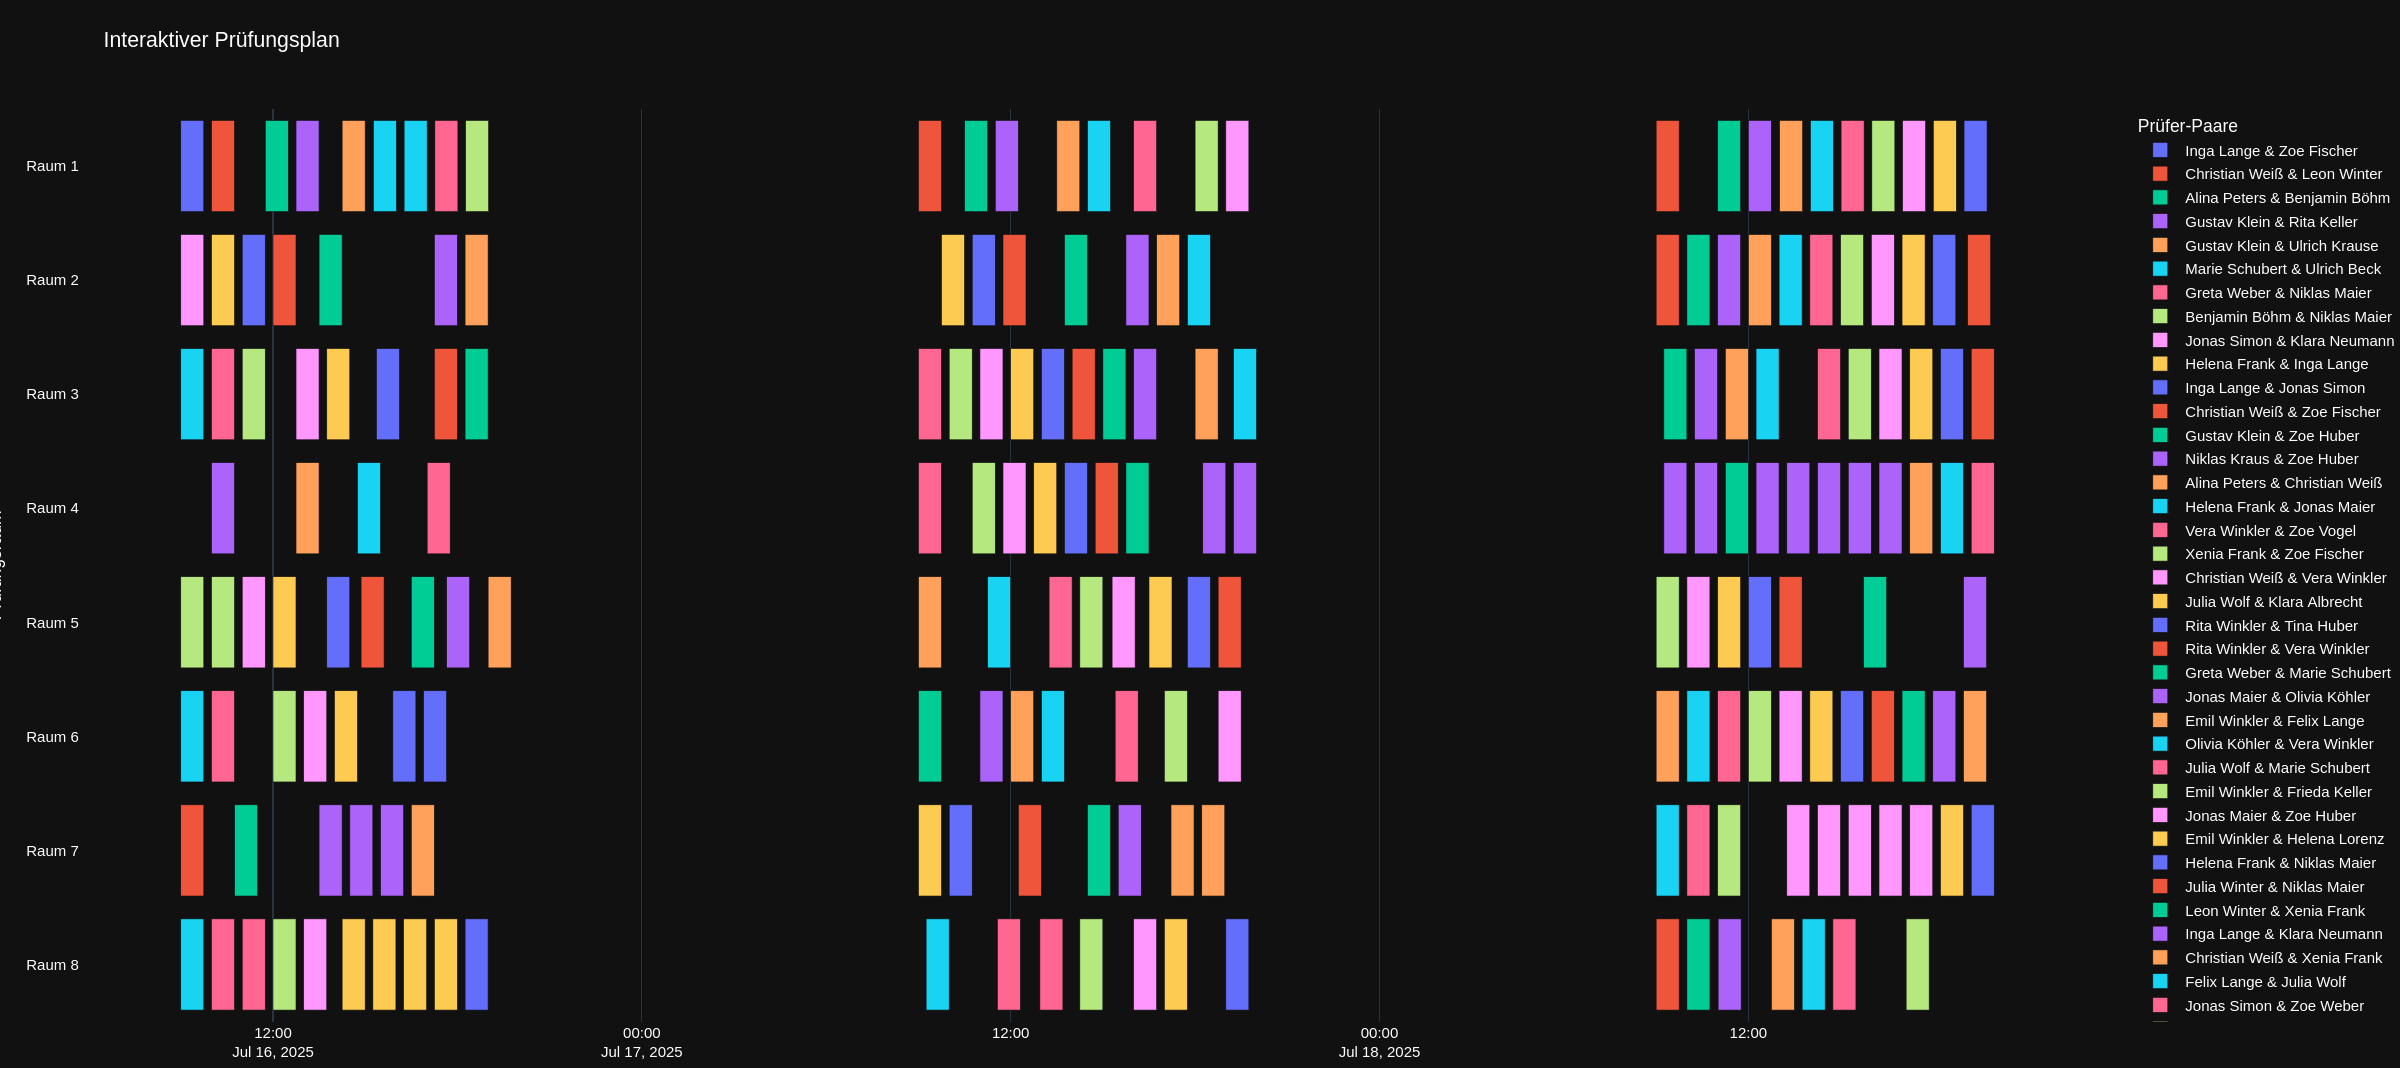
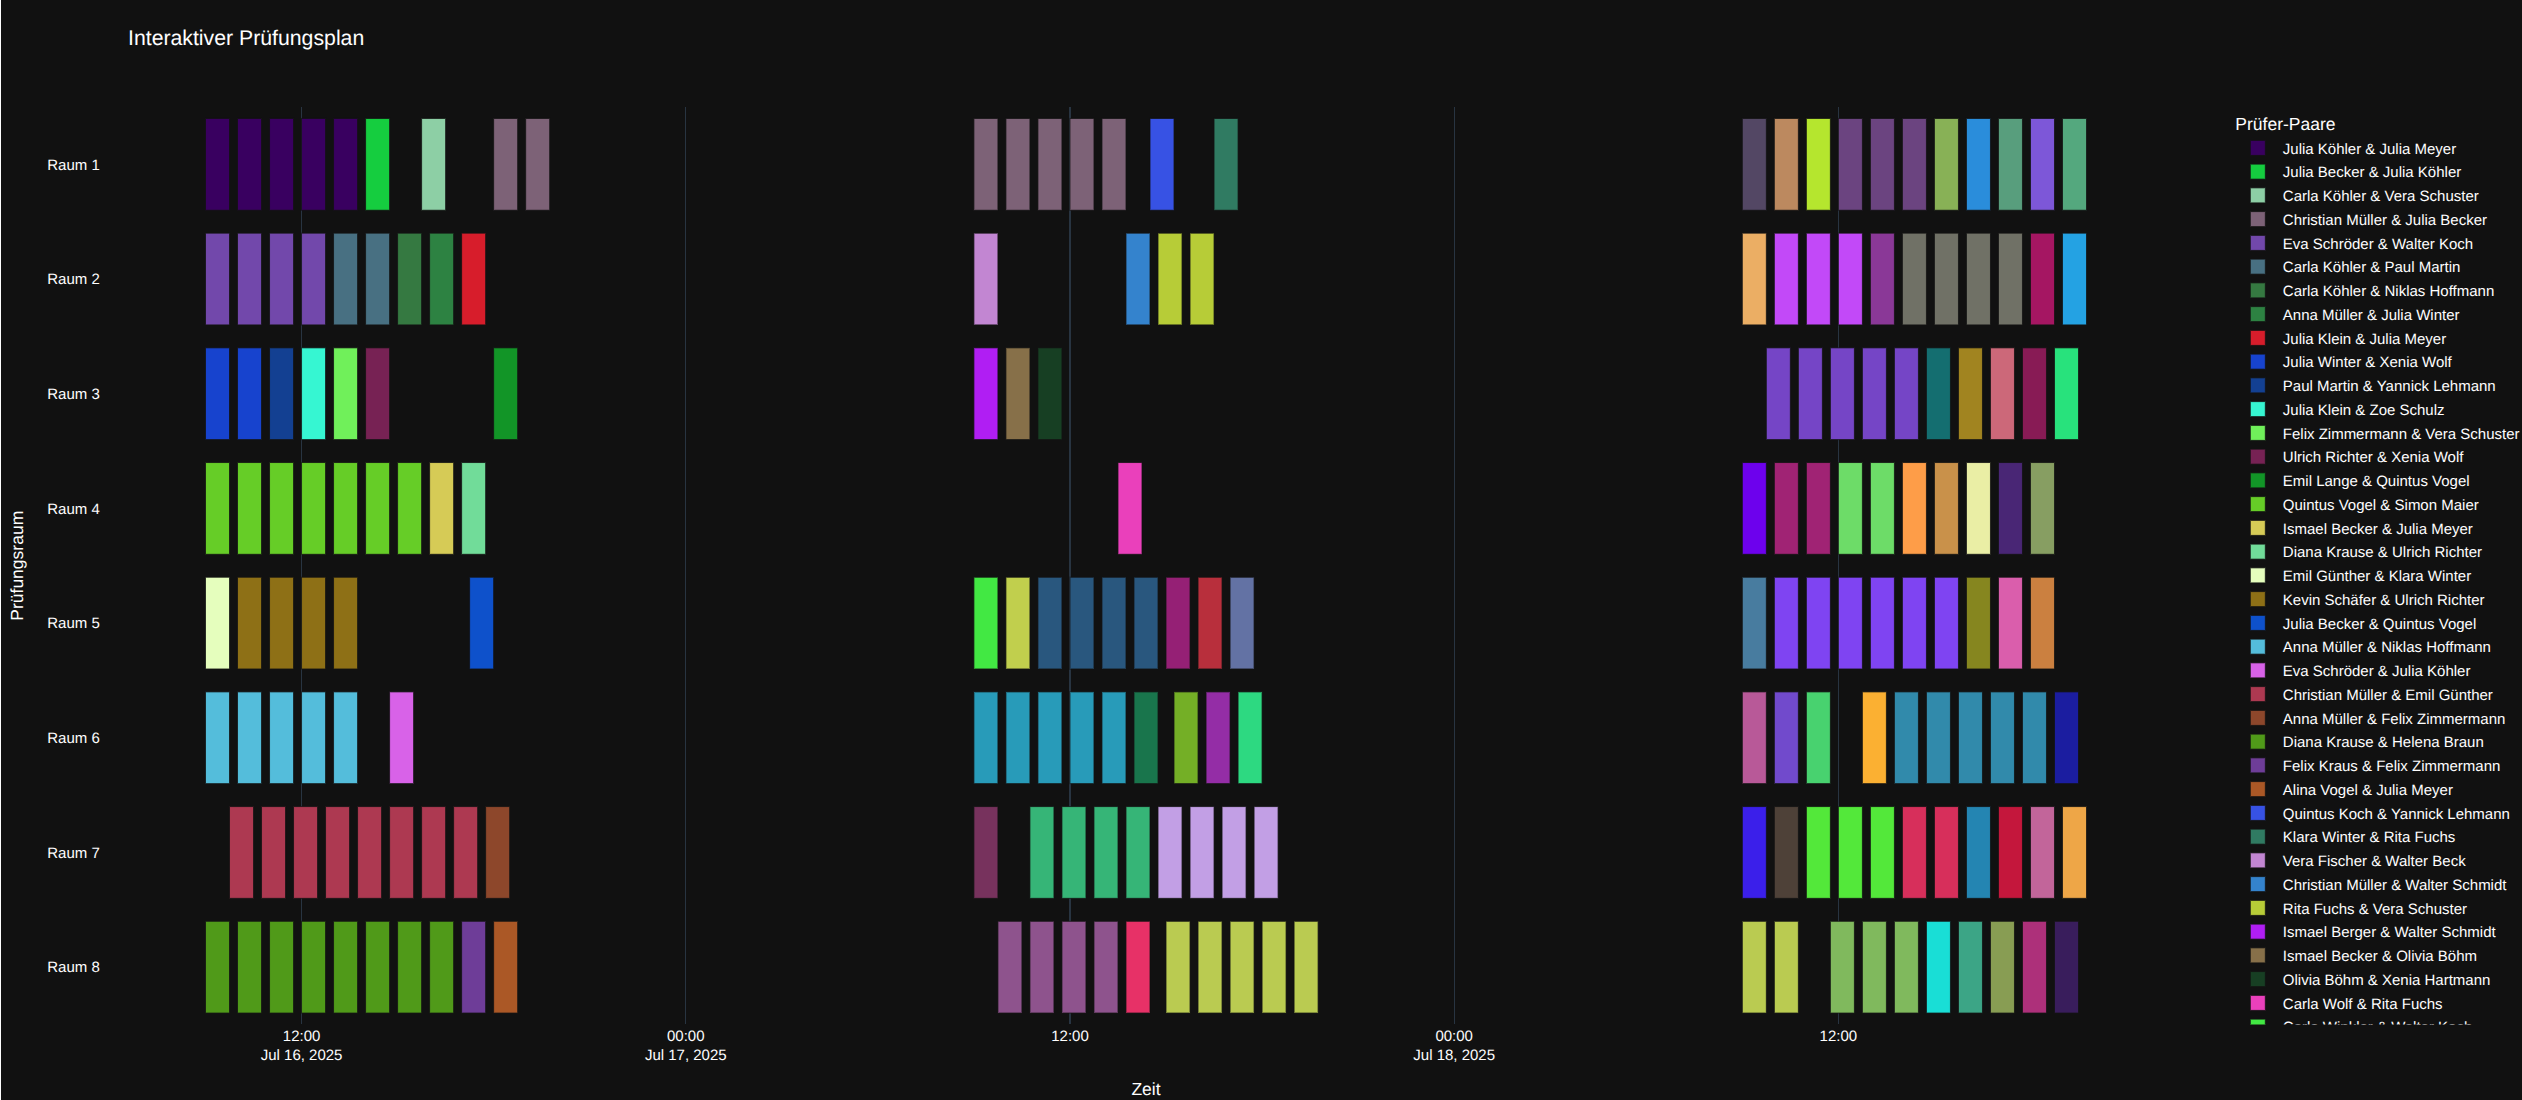
updated doku

diff --git a/visualize.py b/visualize.py
@@ -73,10 +73,7 @@ def plot_prof_pairs(df_exams, filename='professoren_paare.html'):
     
     options = """
     {
-        "nodes": {
-            "borderWidth": 2, "borderWidthSelected": 4,
-            "color": { "border": "#222222", "background": "#666666", "highlight": { "border": "#FFFFFF", "background": "#D3913B" }, "hover": { "border": "#FFFFFF", "background": "#888888" } }
-        },
+        "nodes": { "borderWidth": 2, "borderWidthSelected": 4, "color": { "border": "#222222", "background": "#666666", "highlight": { "border": "#FFFFFF", "background": "#D3913B" }, "hover": { "border": "#FFFFFF", "background": "#888888" } } },
         "edges": { "color": { "highlight": "#D3913B", "hover": "#888888", "inherit": false }, "smooth": false },
         "interaction": { "hover": true, "hoverConnectedEdges": true, "multiselect": true, "navigationButtons": true, "tooltipDelay": 200 },
         "physics": { "barnesHut": { "gravitationalConstant": -30000, "centralGravity": 0.1, "springLength": 250, "springConstant": 0.05, "damping": 0.09, "avoidOverlap": 0.1 }, "minVelocity": 0.75, "solver": "barnesHut" }
@@ -95,61 +92,56 @@ def plot_schedule_gantt(df_schedule, config, filename='optimierter_plan_interakt
     
     constraints_cfg = config['constraints']
     
-    # 1. Daten für Plotly vorbereiten
     df_plot = df_schedule.copy()
     
-    # Erstelle echte Start- und End-Datetime-Objekte
     base_date = datetime.now().date()
     df_plot['start_datetime'] = df_plot.apply(
-        lambda row: datetime.combine(
-            base_date + timedelta(days=row['Tag']-1),
-            datetime.strptime(row['Startzeit'], '%H:%M').time()
-        ), axis=1
+        lambda row: datetime.combine(base_date + timedelta(days=row['Tag']-1), datetime.strptime(row['Startzeit'], '%H:%M').time()), axis=1
     )
     df_plot['end_datetime'] = df_plot['start_datetime'] + timedelta(minutes=constraints_cfg['exam_duration_minutes'])
     
-    # Formatiere die Spalten für Plotly
     df_plot['Raum'] = 'Raum ' + df_plot['Raum'].astype(str)
     
-    # Erstelle eine saubere, textuelle Repräsentation des Prüferpaares für die Legende
     df_plot['prof_pair_str'] = df_plot.apply(
-        lambda row: f"{row['Prüfer 1'].replace('Prof. Dr. ', '')} & {row['Prüfer 2'].replace('Prof. Dr. ', '')}",
-        axis=1
+        lambda row: f"{row['Prüfer 1'].replace('Prof. Dr. ', '')} & {row['Prüfer 2'].replace('Prof. Dr. ', '')}", axis=1
     )
     
-    # Erstelle den Text, der beim Hovern angezeigt wird
     df_plot['hover_text'] = df_plot.apply(
-        lambda row: f"<b>{row['Student']}</b><br>Prüfer: {row['prof_pair_str']}<br>Zeit: {row['Startzeit']}",
-        axis=1
+        lambda row: f"<b>{row['Student']}</b><br>Prüfer: {row['prof_pair_str']}<br>Zeit: {row['Startzeit']}", axis=1
     )
     
-    # 2. Erstelle die interaktive Grafik
+    ### START DER KORREKTUR: Eindeutige Farbzuweisung ###
+    # 1. Finde alle einzigartigen Professorenpaare
+    unique_pairs = df_plot['prof_pair_str'].unique()
+    
+    # 2. Erzeuge eine deterministische, einzigartige Farbe für jedes Paar
+    random.seed(42) # Wichtig, damit die Farben bei jedem Lauf gleich bleiben!
+    color_map = {
+        pair: f'#{random.randint(0, 0xFFFFFF):06x}' for pair in unique_pairs
+    }
+    
+    # 3. Erstelle die interaktive Grafik mit der expliziten Farb-Map
     fig = px.timeline(
         df_plot,
         x_start="start_datetime",
         x_end="end_datetime",
         y="Raum",
-        color="prof_pair_str", # Färbe nach dem eindeutigen Professorenpaar
-        hover_name="hover_text", # Zeige diesen Text beim Hovern an
-        title="Interaktiver Prüfungsplan"
+        color="prof_pair_str",
+        hover_name="hover_text",
+        title="Interaktiver Prüfungsplan",
+        color_discrete_map=color_map # Dies ist die entscheidende Anweisung!
     )
+    ### ENDE DER KORREKTUR ###
 
-    # 3. Passe das Layout für eine bessere Übersicht an
     fig.update_layout(
-        template="plotly_dark", # Dunkles Theme passt gut
+        template="plotly_dark",
         xaxis_title="Zeit",
         yaxis_title="Prüfungsraum",
         legend_title_text='Prüfer-Paare',
-        font=dict(
-            family="Arial, sans-serif",
-            size=12,
-            color="white"
-        )
+        font=dict(family="Arial, sans-serif", size=12, color="white")
     )
     
-    # Sorge dafür, dass Raum 1 oben ist
     fig.update_yaxes(autorange="reversed")
     
-    # Speichere die Grafik als eigenständige HTML-Datei
     fig.write_html(filename)
     print(f"Interaktives Gantt-Diagramm gespeichert unter: {filename}")

diff --git a/optimize_schedule.py b/optimize_schedule.py
@@ -5,6 +5,7 @@ import itertools
 import visualize 
 import time
 
+## Helper-Klasse für die Callback-Funktion
 class ObjectiveCallback(cp_model.CpSolverSolutionCallback):
     def __init__(self, objective_var):
         cp_model.CpSolverSolutionCallback.__init__(self)
@@ -22,6 +23,7 @@ class ObjectiveCallback(cp_model.CpSolverSolutionCallback):
     def solution_count(self):
         return self.__solution_count
 
+## Hauptfunktion zur Ausführung der Optimierung
 def run_optimization(config_path='config.yaml'):
     with open(config_path, 'r') as f:
         config = yaml.safe_load(f)
@@ -42,10 +44,12 @@ def run_optimization(config_path='config.yaml'):
     all_rooms = list(range(constraints_cfg['num_rooms']))
     all_days = list(range(constraints_cfg['num_days']))
 
+    ## 1. Erstellen des CP-SAT-Modells
     model = cp_model.CpModel()
 
     starts, ends, days, rooms, intervals = {}, {}, {}, {}, {}
 
+    ## 2. Erstellen der Variablen für Startzeit, Endzeit, Tag und Raum für jede Prüfung im CP-SAT-Modell
     for exam_id in all_exams:
         starts[exam_id] = model.NewIntVar(0, total_duration_min, f"start_{exam_id}")
         ends[exam_id] = model.NewIntVar(0, total_duration_min, f"end_{exam_id}")
@@ -55,6 +59,8 @@ def run_optimization(config_path='config.yaml'):
             starts[exam_id], constraints_cfg['exam_duration_minutes'], ends[exam_id], f"interval_{exam_id}"
         )
 
+    ## 3. Hinzufügen der harten Randbedingungen
+    # a) Überprüfung der Zeitfenster für Prüfungen
     slot_duration = constraints_cfg['exam_duration_minutes'] + constraints_cfg['pause_between_exams_minutes']
     for room in all_rooms:
         room_intervals = []
@@ -69,15 +75,18 @@ def run_optimization(config_path='config.yaml'):
             room_intervals.append(buffered_interval)
         model.AddNoOverlap(room_intervals)
 
+    # b) Überprüfung der Zeitfenster für Professoren
     for prof in all_profs:
         prof_exams = df_exams[(df_exams['prof_1'] == prof) | (df_exams['prof_2'] == prof)]['exam_id'].tolist()
         model.AddNoOverlap([intervals[ex_id] for ex_id in prof_exams])
 
+    # c) Überprüfung der Zeitfenster für Studierende
     for exam_id in all_exams:
         start_in_day = model.NewIntVar(0, day_duration_min, f"start_in_day_{exam_id}")
         model.Add(starts[exam_id] == days[exam_id] * day_duration_min + start_in_day)
         model.Add(start_in_day <= day_duration_min - constraints_cfg['exam_duration_minutes'])
 
+    # d) Überprüfung der maximalen Prüfungen pro Tag
     prof_active_days = []
     for prof in all_profs:
         for day in all_days:
@@ -93,8 +102,11 @@ def run_optimization(config_path='config.yaml'):
             model.AddBoolOr(exams_on_this_day).OnlyEnforceIf(is_active)
             model.Add(sum(exams_on_this_day) == 0).OnlyEnforceIf(is_active.Not())
             
+    ## 4. Hinzufügen der weichen Randbedingungen
+    # a) Minimierung der aktiven Tage für Professoren
     total_active_days_cost = sum(prof_active_days) * opt_params['weight_active_days']
     
+    # b) Minimierung der Lokalität der Professorenpaare
     locality_costs = []
     if opt_params.get('weight_prof_pair_locality', 0) > 0:
         df_exams['prof_pair'] = df_exams.apply(lambda row: tuple(sorted((row['prof_1'], row['prof_2']))), axis=1)
@@ -116,18 +128,22 @@ def run_optimization(config_path='config.yaml'):
 
     total_locality_cost = sum(locality_costs) * opt_params.get('weight_prof_pair_locality', 0)
     
+    ## 5. Minimierung der Gesamtkosten
     total_objective = model.NewIntVar(0, 100000000, 'total_objective')
     model.Add(total_objective == total_active_days_cost + total_locality_cost)
     model.Minimize(total_objective)
 
+    ## 6. Lösen des Modells
+    print("Starte Optimierung...")
+    print(f"Maximale Laufzeit: {opt_params['solver_time_limit_seconds']} Sekunden")
     solver = cp_model.CpSolver()
     solver.parameters.max_time_in_seconds = float(opt_params['solver_time_limit_seconds'])
     
     solution_callback = ObjectiveCallback(total_objective)
     status = solver.Solve(model, solution_callback)
 
+    ## 7. Verarbeiten der Ergebnisse
     if status == cp_model.OPTIMAL or status == cp_model.FEASIBLE:
-        # ... (Rest des Codes bleibt gleich)
         print(f"\nSuche beendet. {solution_callback.solution_count()} Lösungen gefunden. Beste Lösung wird verwendet.")
         print(f"Finaler Status: {solver.StatusName(status)}")
         schedule = []

diff --git a/anleitung_optimierung.md b/anleitung_optimierung.md
@@ -1,0 +1,65 @@
+# Anleitung zur Optimierung des Prüfungsplans
+
+Dieses Dokument beschreibt die Funktionsweise und Konfiguration der Optimierungs-Engine, die das Herzstück dieses Planungstools bildet. Das Verständnis dieser Konzepte ermöglicht es Ihnen, den generierten Prüfungsplan genau an Ihre Prioritäten anzupassen.
+
+## Das Grundprinzip: Die "Kostenfunktion"
+
+Ein Computer-Solver versteht keine menschlichen Konzepte wie "Bequemlichkeit" oder "ein guter Zeitplan". Er versteht nur ein einziges Ziel: **Minimiere eine Zahl.**
+
+Unsere Aufgabe ist es, alle unsere Wünsche in eine einzige mathematische Formel – eine sogenannte **Kostenfunktion** – zu übersetzen. Jede Eigenschaft eines Zeitplans, die wir als "schlecht" empfinden, erhöht den Wert dieser Funktion. Der Solver versucht dann, durch intelligentes Ausprobieren von Milliarden von Möglichkeiten, einen gültigen Zeitplan zu finden, bei dem diese "Gesamtkosten"-Zahl so niedrig wie möglich ist.
+
+Die `weights` (Gewichte) in der `config.yaml`-Datei sind die entscheidenden Stellschrauben in dieser Kostenfunktion. Sie legen fest, wie "teuer" eine unerwünschte Eigenschaft ist.
+
+## Die Optimierungsziele und ihre Gewichte
+
+Unser Modell verfolgt zwei Hauptziele, die jeweils mit einem Gewicht versehen sind.
+
+### 1. Hauptziel: `weight_active_days`
+
+-   **Was es bedeutet:** Dieses Gewicht steuert das wichtigste Ziel: Professoren sollen an so wenigen Tagen wie möglich anwesend sein müssen. Es ist die "Strafe" für jeden zusätzlichen Arbeitstag eines Professors.
+-   **Wie es funktioniert:** Das Modell zählt für jeden Professor und jeden Tag, ob er mindestens eine Prüfung hat. Jeder dieser "aktiven Professor-Tage" wird mit dem Wert von `weight_active_days` multipliziert und zu den Gesamtkosten addiert.
+    -   `Kosten_Tage = (Anzahl aller aktiven Professor-Tage) * weight_active_days`
+-   **Wie man den Wert wählt:** Dieser Wert sollte **der mit Abstand größte** in Ihrer Konfiguration sein, da ein zusätzlicher Anreisetag für einen Professor die größte Unannehmlichkeit darstellt.
+    -   **Empfehlung:** Wählen Sie eine hohe Zahl, die eine greifbare Bedeutung hat. Ein guter Startwert ist die Anzahl der Minuten eines Arbeitstages, z.B. **`480`** (für 8 Stunden). Das bedeutet: "Ein zusätzlicher Arbeitstag ist so schlimm wie 480 Minuten Leerlaufzeit."
+    -   **Wertebereich:** Starten Sie mit Werten zwischen **400 und 1000**. Ein höherer Wert zwingt den Solver noch stärker, Tage zu bündeln, selbst wenn dadurch größere Lücken an den verbleibenden Tagen entstehen.
+
+### 2. Nebenziel: `weight_prof_pair_locality`
+
+-   **Was es bedeutet:** Dieses Gewicht steuert das "Feintuning". Es sorgt dafür, dass Prüfungen, die vom *selben Professorenpaar* abgenommen werden, möglichst kompakt geplant werden – idealerweise direkt hintereinander und im selben Raum.
+-   **Wie es funktioniert:** Dieses Gewicht bestraft zwei Dinge:
+    1.  **Zeitliche Streuung:** Es berechnet die Gesamtspanne von der ersten bis zur letzten Prüfung einer "Arbeitsgruppe". Je weiter diese auseinanderliegen, desto höher die Kosten.
+    2.  **Raumwechsel:** Für jeden Raumwechsel innerhalb einer Arbeitsgruppe wird eine feste "Strafgebühr" (im Code hartcodiert auf 120 Minuten) zu den Kosten addiert.
+    -   `Kosten_Lokalität = (Summe aller Zeitspannen + Summe aller Raumwechsel-Strafen) * weight_prof_pair_locality`
+-   **Wie man den Wert wählt:** Dieser Wert sollte **deutlich kleiner** sein als `weight_active_days`. Er drückt eine Präferenz aus, keine harte Anforderung.
+    -   **Empfehlung:** Starten Sie mit einem kleinen Wert wie **`1`** oder **`5`**.
+    -   **Wertebereich:** Experimentieren Sie mit Werten zwischen **1 und 20**.
+        -   Ein Wert von `1` sagt dem Solver: "Eine Minute Leerlaufzeit innerhalb einer Gruppe ist eine Kosten-Einheit."
+        -   Ein Wert von `10` sagt: "Jede Minute, die du die Prüfungen einer Gruppe auseinanderziehst, ist 10-mal schlimmer als normaler Leerlauf. Versuche es wirklich zu vermeiden!"
+
+## Die kombinierte Kostenfunktion
+
+Die finale Formel, die der Solver minimiert, sieht vereinfacht so aus:
+
+**`Gesamtkosten = (Kosten_Tage) + (Kosten_Lokalität)`**
+
+Der Solver wird also immer eine Lösung bevorzugen, die einen Professor-Tag einspart (`-480` Kosten), selbst wenn er dafür die Prüfungen einer Arbeitsgruppe um ein paar Stunden auseinanderziehen muss (`+120` Kosten).
+
+## Praktische Anleitung zum Tuning: Ein Workflow
+
+Der beste Weg, die Gewichte einzustellen, ist iterativ:
+
+1.  **Schritt 1: Das Fundament legen (Tage minimieren)**
+    -   Setzen Sie `weight_active_days` auf einen hohen Wert (z.B. `480`).
+    -   Setzen Sie `weight_prof_pair_locality` auf einen niedrigen Wert (z.B. `1`).
+    -   Führen Sie die Optimierung aus. Das Ergebnis ist ein Plan, der primär darauf ausgelegt ist, die Anwesenheitstage aller Professoren zu minimieren.
+
+2.  **Schritt 2: Die Bündelung verbessern (Feintuning)**
+    -   Schauen Sie sich das interaktive Gantt-Diagramm an. Sind die farbigen Blöcke (die zu einem Prüferpaar gehören) schon gut gebündelt?
+    -   Erhöhen Sie nun `weight_prof_pair_locality` auf `5` oder `10`.
+    -   Führen Sie die Optimierung erneut aus.
+
+3.  **Schritt 3: Vergleichen und Entscheiden**
+    -   Vergleichen Sie das neue Gantt-Diagramm mit dem vorherigen. Die farbigen Blöcke sollten jetzt noch kompakter und seltener über verschiedene Räume verteilt sein.
+    -   **Kontrollfrage:** Musste für diese verbesserte Bündelung ein Professor einen zusätzlichen Tag anreisen? Falls ja, ist der "Preis" für das Feintuning zu hoch. Falls nein, haben Sie eine bessere Lösung gefunden.
+
+Wiederholen Sie diesen Prozess, bis Sie den "Sweet Spot" gefunden haben, der die Prioritäten Ihrer Fakultät am besten widerspiegelt. Die Gewichte sind Ihre direkten Kontrollknöpfe, um dem Solver Ihre Wünsche mitzuteilen.

diff --git a/README.md b/README.md
@@ -1,6 +1,6 @@
 # Optimierungs-Tool für die Prüfungsplanung
 
-Dieses Projekt bietet eine komplette Lösung zur Erstellung, Optimierung und Visualisierung von Prüfungsplänen (z.B. für Disputationen von Bachelor- oder Masterarbeiten). Es nutzt **Google OR-Tools**, einen mächtigen Constraint-Solver, um einen Plan zu erstellen, der eine Reihe von harten und weichen Randbedingungen erfüllt.
+Dieses Projekt bietet eine komplette Lösung zur Erstellung, Optimierung und Visualisierung von Prüfungsplänen (z.B. für Disputationen von Bachelor- oder Masterarbeiten). Es nutzt **Google OR-Tools**, einen mächtigen Constraint-Solver (CP-SAT), um einen Plan zu erstellen, der eine Reihe von harten und weichen Randbedingungen erfüllt.
 
 Das primäre Ziel ist es, den Verwaltungsaufwand zu minimieren und den Komfort für die beteiligten Professoren zu maximieren, indem ihre Prüfungsblöcke gebündelt werden.
 
@@ -53,6 +53,8 @@ pip install -r requirements.txt
 ## ⚙ Anwendung
 
 Der Prozess besteht aus drei einfachen Schritten:
+
+### Schritt 0: Prozedere siehe ![Anleitung zur Optimierung](anleitung_optimierung.md)
 
 ### Schritt 1: Konfiguration anpassen (optional)
 
